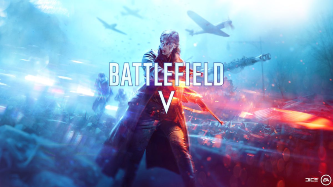
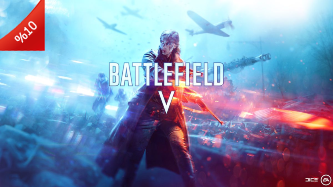
cambio completo ofertas-newhover div index

Changed region(s): [[0.0, 0.0, 0.1502, 0.2941]]

diff --git a/pages/ofertas.html b/pages/ofertas.html
@@ -5,6 +5,7 @@
     <meta http-equiv="X-UA-Compatible" content="IE=edge">
     <meta name="viewport" content="width=device-width, initial-scale=1.0">
     <link rel="stylesheet" href="../css/style.css">
+    <link rel="stylesheet" href="https://cdnjs.cloudflare.com/ajax/libs/animate.css/4.1.1/animate.min.css"/>
     <title>Ofertas</title>
 </head>
 <body>
@@ -23,79 +24,83 @@
             <h2>OFERTAS DEL MES</h2>
         </section>
         <section class="juegosofertas3">
-            <div>
+            <div class="animate__animated animate__backInLeft">
                 <a href="./contact.html">
-                    <img src="../img/rrrrrrrrrrraft.jpg" alt="juego-raft">
+                    <img src="../img/rrrrrrrrrrraft.png" alt="juego-raft">
                     <h3>Raft</h3>
-                    <h4>$10000</h4>
+                    <h4>$1̶0̶0̶0̶0̶-<span>$5000</span></h4>
                     <a href="../index.html">Añadir al 🛒</a>
                 </a>
             </div>
-            <div>
+            <div class="animate__animated animate__backInRight">
                 <a href="./contact.html">
                     <img src="../img/cscscscscscscs.png" alt="juego-counter-strike-global-offensive">
                     <h3>Counter-Strike: Global Offensive</h3>
-                    <h4>$10000</h4>
+                    <h4>$1̶0̶0̶0̶0̶-<span>$3000</span></h4>
                     <a href="../index.html">Añadir al 🛒</a>
                 </a>
             </div>
-            <div>
+            <div class="animate__animated animate__backInLeft">
                 <a href="./contact.html">
                     <img src="../img/Age-of-empires-iii_de_portada.png" alt="juego-age-of-empires-3">
                     <h3>Age Of Empires III</h3>
-                    <h4>$10000</h4>
+                    <h4>$1̶0̶0̶0̶0̶-<span>$6000</span></h4>
                     <a href="../index.html">Añadir al 🛒</a>
                 </a>
             </div>
-        </section>
-        <section class="juegosofertas6">
-            <div>
+            <div class="animate__animated animate__backInRight">
                 <a href="./contact.html">
                     <img src="../img/diiiiirt.png" alt="juego-dirt-4">
                     <h3>Dirt 4</h3>
-                    <h4>$10000</h4>
+                    <h4>$1̶0̶0̶0̶0̶-<span>$8000</span></h4>
                     <a href="../index.html">Añadir al 🛒</a>
                 </a>
             </div>
-            <div>
+            <div class="animate__animated animate__backInLeft">
                 <a href="./contact.html">
                     <img src="../img/btttff.png" alt="juego-battlefield-5">
                     <h3>Battlefield V</h3>
-                    <h4>$10000</h4>
+                    <h4>$1̶0̶0̶0̶0̶-<span>$9000</span></h4>
                     <a href="../index.html">Añadir al 🛒</a>
                 </a>
             </div>
-            <div>
+            <div class="animate__animated animate__backInRight">
                 <a href="./contact.html">
                     <img src="../img/codcod.png" alt="juego-call-of-duty-black-ops-3">
                     <h3>Call Of Duty: Blacks Ops III</h3>
-                    <h4>$10000</h4>
+                    <h4>$1̶0̶0̶0̶0̶-<span>$7000</span></h4>
                     <a href="../index.html">Añadir al 🛒</a>
                 </a>
             </div>
-        </section>
-        <section class="juegosofertas9">
-            <div>
+            <div class="animate__animated animate__backInLeft">
                 <a href="./contact.html">
-                    <img src="../img/warthunderimg.jpg" alt="war-thunder">
+                    <img src="../img/warthunderimg.png" alt="war-thunder">
                     <h3>War Thunder</h3>
-                    <h4>$10000</h4>
+                    <h4>$1̶0̶0̶0̶0̶-<span>$2000</span></h4>
                     <a href="../index.html">Añadir al 🛒</a>
                 </a>
             </div>
-            <div>
+            <div class="animate__animated animate__backInRight">
                 <a href="./contact.html">
-                    <img src="../img/cyberpunkimg.webp" alt="juego-cyberpunk-2077">
+                    <img src="../img/cyberpunk2077.png" alt="juego-cyberpunk-2077">
                     <h3>Cyberpunk 2077</h3>
-                    <h4>$10000</h4>
+                    <h4>$1̶0̶0̶0̶0̶-<span>$4000</span></h4>
                     <a href="../index.html">Añadir al 🛒</a>
                 </a>
             </div>
-            <div>
+            <div class="animate__animated animate__backInLeft">
                 <a href="./contact.html">
-                    <img src="../img/mk11img.jpg" alt="juego-mortal-kombat-11">
+                    <img src="../img/mk11img.png" alt="juego-mortal-kombat-11">
                     <h3>Mortal Kombat 11</h3>
-                    <h4>$10000</h4>
+                    <h4>$1̶0̶0̶0̶0̶-<span>$8000</span></h4>
+                    <a href="../index.html">Añadir al 🛒</a>
+                </a>
+            </div>
+            <div class="animate__animated animate__backInRight">
+                <a href="./contact.html">
+                    <img src="../img/human-fall-flat.png" alt="juego-human-fall-flat">
+                    <h3>Human: Fall Flat</h3>
+                    <h4>$1̶0̶0̶0̶0̶-<span>$1000</span></h4>
                     <a href="../index.html">Añadir al 🛒</a>
                 </a>
             </div>

diff --git a/css/style.css b/css/style.css
@@ -61,7 +61,7 @@ nav{
 
 @keyframes slidefromleft {
     from{
-        margin-left: 100%;
+        margin-left: 200%;
         width: 300%;
     }
     to{
@@ -69,6 +69,7 @@ nav{
         width: 100%;
     }
 }
+
 
 /*!------------------------PAGINA INDEX--------------------------*/
 
@@ -142,10 +143,12 @@ header nav ul {
     border: 3px solid rgb(0, 0, 0);
     margin-top: 50px;
     padding: 3px;
+    transition: 1s;
 }
 
 .juegos3 div:hover{
     background-color: rgb(8, 214, 255);
+    transform: scale(1.1);
 }
 
 .juegos3 div img{
@@ -483,25 +486,39 @@ main .paginas{
 
 
 .juegosofertas3{
-    display: flex;
-    flex-wrap: wrap;
-    justify-content: space-evenly;
-    margin-top: 100px;
+    width: 100%;
+    margin-top: 30px;
+    display: grid;
+    grid-template-columns: repeat(2, 1fr);
+    gap: 20px;
 }
 
 .juegosofertas3 div{
-    color: rgb(0, 0, 0);
+    width: 500px;
+    height: 300px;
     font-family: 'Gill Sans', 'Gill Sans MT', Calibri, 'Trebuchet MS', sans-serif;
     font-size: 20px;
     text-align: center;
     background-color: rgba(4, 255, 0, 0.497);
     text-decoration: none;
-    margin: 20px;
     border: 2px solid rgb(0, 0, 0);
+    margin: 20px;
+    margin-left: 15%;
+}
+
+
+
+.juegosofertas3 div img{
+    width: 100%;
+    height: 70%;
 }
 
 .juegosofertas3 div:hover{
     background-color: green;
+}
+
+.juegosofertas3 span{
+    color: #F00;
 }
 
 
@@ -511,53 +528,11 @@ main section div a{
     color: white;
 }
 
-
-.juegosofertas6{
-    display: flex;
-    flex-wrap: wrap;
-    justify-content: space-evenly;
-}
-
-.juegosofertas6 div{
-    color: rgb(0, 0, 0);
-    font-family: 'Gill Sans', 'Gill Sans MT', Calibri, 'Trebuchet MS', sans-serif;
-    font-size: 20px;
-    text-align: center;
-    background-color: rgba(17, 255, 0, 0.497);
-    text-decoration: none;
-    margin: 20px;
-    border: 2px solid rgb(0, 0, 0);
+main section div a:hover{
+    background-color: rgb(0, 0, 0);
 }
 
 
-
-.juegosofertas6 div:hover{
-    background-color: green;
-}
-
-
-.juegosofertas9{
-    display: flex;
-    flex-wrap: wrap;
-    justify-content: space-evenly;
-}
-
-.juegosofertas9 div{
-    color: rgb(0, 0, 0);
-    font-family: 'Gill Sans', 'Gill Sans MT', Calibri, 'Trebuchet MS', sans-serif;
-    font-size: 20px;
-    text-align: center;
-    background-color: rgba(17, 255, 0, 0.497);
-    text-decoration: none;
-    margin: 20px;
-    border: 2px solid rgb(0, 0, 0);
-
-
-}
-
-.juegosofertas9 div:hover{
-    background-color: green;
-}
 
 
 /*!-------------------------PAGINA FAQ--------------------------*/
